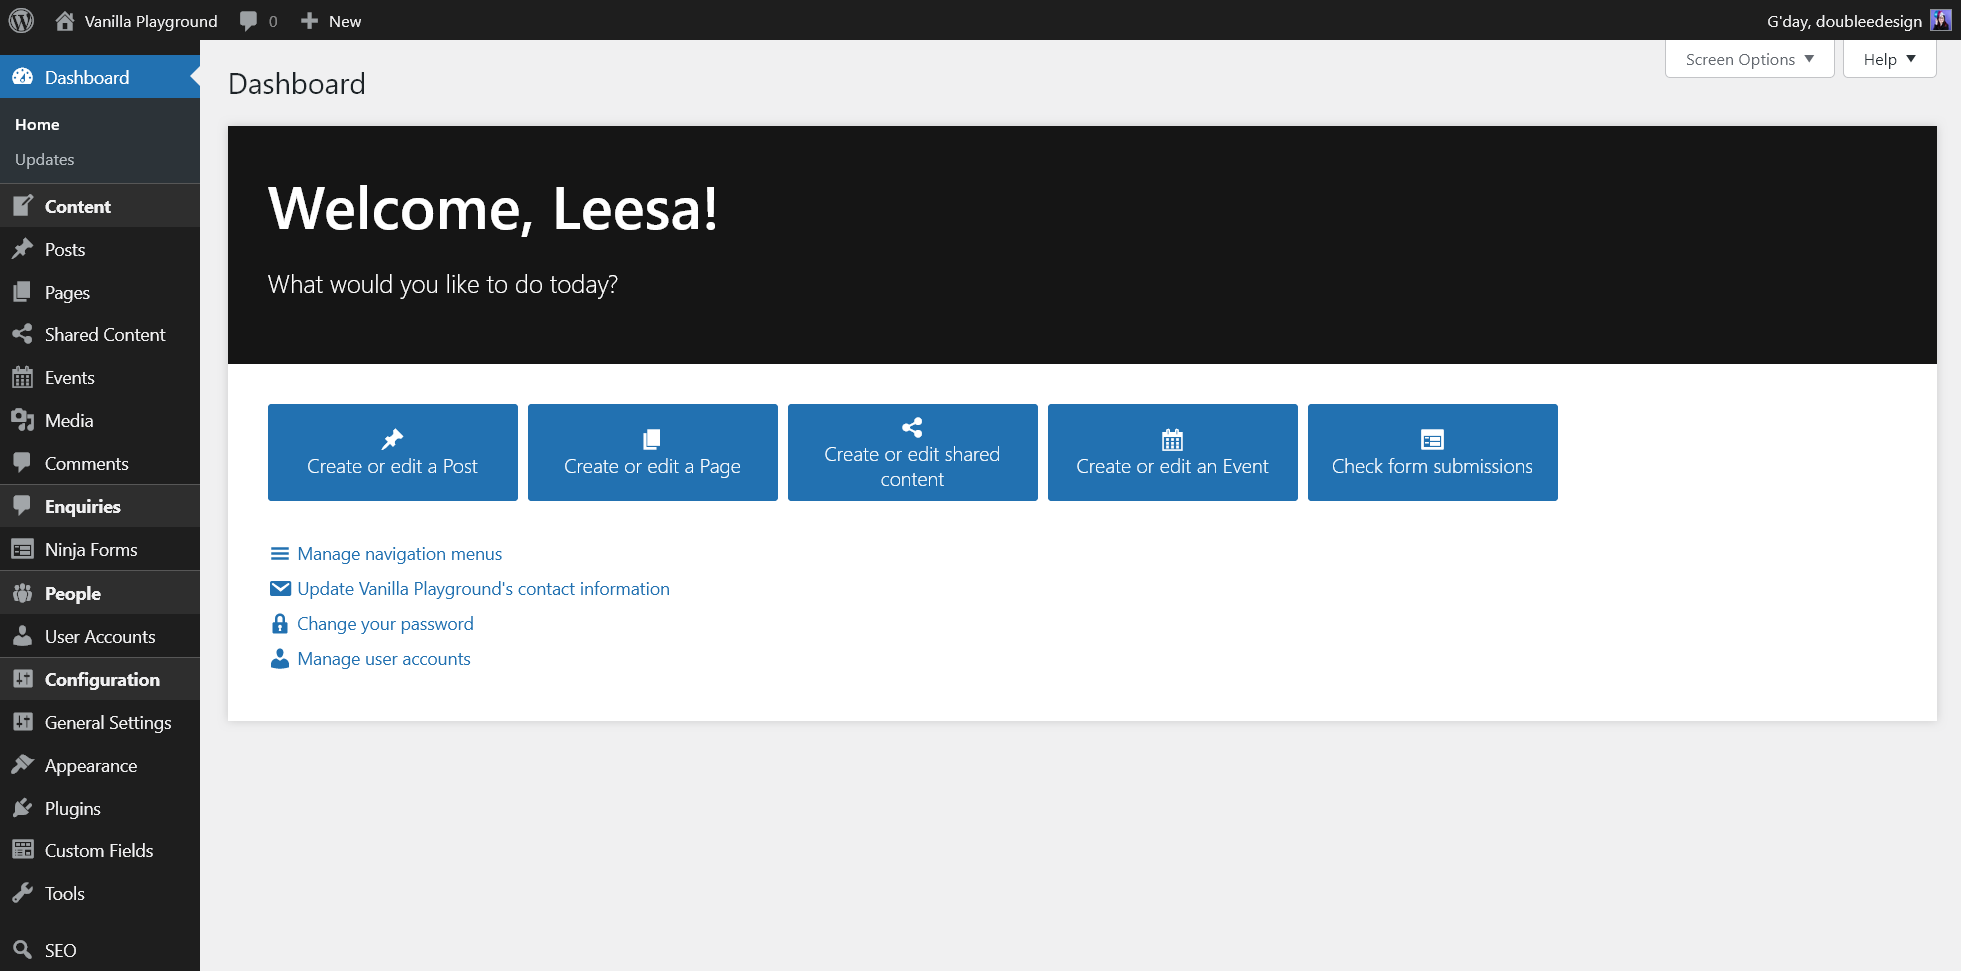
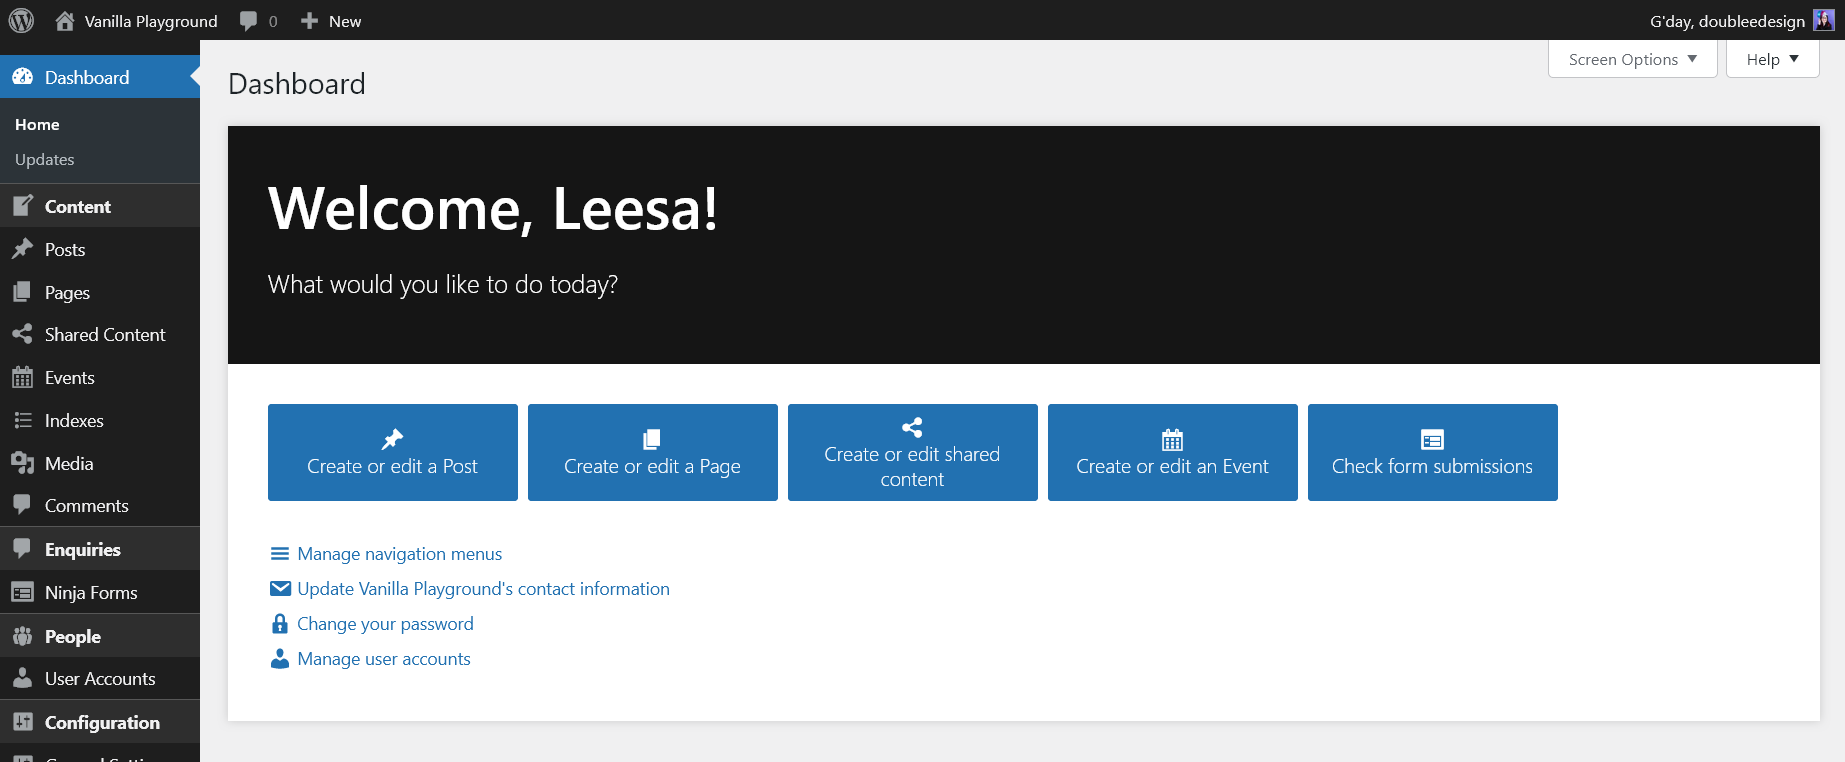
Docs: Update README with more screenshots and other minor edits

Changed region(s): [[0.0, 0.0, 1.0, 1.0], [0.9577, 0.7244, 0.9886, 0.7546]]

diff --git a/README.md b/README.md
@@ -3,17 +3,20 @@
 Common customisations for client websites.
 
 - [Features](#features)
-  - [Customised welcome screen](#customised-welcome-screen)
-  - [Global settings page](#global-settings-page)
-  - ["Editor Plus" custom role](#editor-plus-custom-role)
-  - [Other features](#other-features)
+	- [Welcome screen](#welcome-screen)
+	- [Global settings](#global-settings)
+	- ["Editor Plus" custom role](#editor-plus-custom-role)
+	- [CPT Index post type](#cpt-index-post-type)
+	- [Other features](#other-features)
 - [General intentions and advice](#general-intentions-and-advice)
-- [Development](#development)
+- [Information for developers](#information-for-developers)
+	- [Available filter hooks](#filter-hook-summary)
 - [Changelog](#changelog)
 
+---
 ## Features
 
-### Customised welcome screen
+### Welcome screen
 
 The default WordPress welcome screen is replaced with a custom welcome screen that provides links to common actions relevant to the current site, using its post types, and the presence of particular plugins and options pages, and the current user's permissions to determine which actions to show.
 
@@ -28,7 +31,7 @@ add_filter('doublee_welcome_screen_post_types', function(array $post_types): arr
 });
 ```
 
-### Global settings page
+### Global settings
 
 An ACF Options page is included for site-wide, client-specific global settings such as logos and contact information. By default it is located under `Appearance → (Site name) Settings` in the admin menu. Where this information is used on the front-end is determined by the active theme and plugins.
 
@@ -37,6 +40,9 @@ An ACF Options page is included for site-wide, client-specific global settings s
 If you are using ClassicPress, the logo field here automatically syncs with the ClassicPress logo setting in the General Settings page. It's kept in this options page as well because of the assumption that clients would expect to find it here.
 
 The fields can be customised by plugins and themes using the `doublee_global_settings_fields` filter. If adding fields, please use the `doublee_global_settings_contributors` filter to ensure that the "About" tab content is accurate - this is helpful for troubleshooting.
+
+> [!WARNING]  
+> Filtering out fields from the settings in code _does not_ delete existing data for them from the database.
 
 ### "Editor Plus" custom role
 
@@ -73,31 +79,34 @@ add_filter('doublee_indexable_custom_post_types', function(array $post_types): a
 
 ### Other features
 - Customised admin menu ordering and sectioning
- - Admin notices for required/recommended plugins
- - Defaults for hiding and positioning of certain metaboxes in the admin edit screens (for simplicity)
- - Defaults for hiding and positioning of certain columns in the admin list tables (for simplicity)
- - Conditionally loading and saving certain ACF field groups within the plugin, rather than the active theme
- - An additional context for displaying metaboxes (`after_title`)
- - Automatic basic `<title>` tags (for sites that don't need a full SEO plugin)
-
-Please see the [changelog](CHANGELOG.md) for more information and the latest updates.
+- Admin notices for required/recommended plugins
+- Defaults for hiding and positioning of certain metaboxes in the admin edit screens (for simplicity)
+- Defaults for hiding and positioning of certain columns in the admin list tables (for simplicity)
+- Conditionally loading and saving certain ACF field groups within the plugin, rather than the active theme
+- An additional context for displaying metaboxes (`after_title`)
+- Automatic basic `<title>` tags (for sites that don't need a full SEO plugin).
 
 ---
+## Information for developers
 
-## General intentions and advice
+### Available filter hooks
 
-I use this with my own theme starterkits, and client-specific custom plugins, and other plugins I have developed to create custom sites with clear separation of concerns as much as is practical. As a  guide:
+| Filter                                       | Arguments           | Description                                                                                               |
+|----------------------------------------------|---------------------|-----------------------------------------------------------------------------------------------------------|
+| `doublee_welcome_screen_included_post_types` | `array $post_types` | Modify the post types for which "Add or edit" buttons are shown on the [welcome screen](#welcome-screen). |
+| `doublee_welcome_screen_primary_links`	      | `array $links`      | Modify the primary action links shown on the [welcome screen](#welcome-screen).                           |
+| `doublee_welcome_screen_secondary_links`     | `array $links`      | Modify the secondary action links shown on the [welcome screen](#welcome-screen).                         |
+| `doublee_indexable_custom_post_types`		      | `array $post_types` | Modify the post types for which [CPT Indexes](#cpt-index-post-type) are created.                          |
+| `doublee_global_settings_fields`             | `array $fields`     | Modify the ACF fields available on the [global settings](#global-settings).                               |
+| `doublee_global_settings_contributors`       | `array $names`      | Modify the list of contributors shown on the "About" tab of the [global settings](#global-settings).      |
+
+### General intentions and advice
+
+I use this with my own theme starterkits, and client-specific custom plugins, and other plugins I have developed to create custom sites with clear separation of concerns as much as is practical. As a guide:
 - Code related to front-end design and content display belongs in the theme
 - Custom functionality, custom post types, custom taxonomies, modifications to WordPress functionality (including the admin UI), site-specific data structures and management belong in plugins.
 
 ---
-
-## Development
-
-More info to come.
-
----
-
 ## Changelog
 
 Please see [CHANGELOG.md](CHANGELOG.md).
